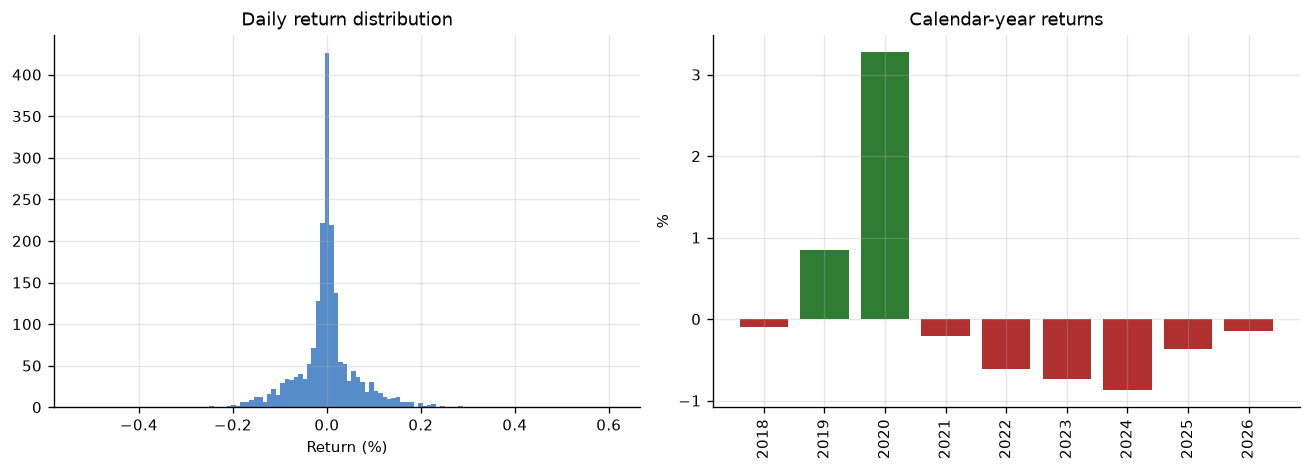
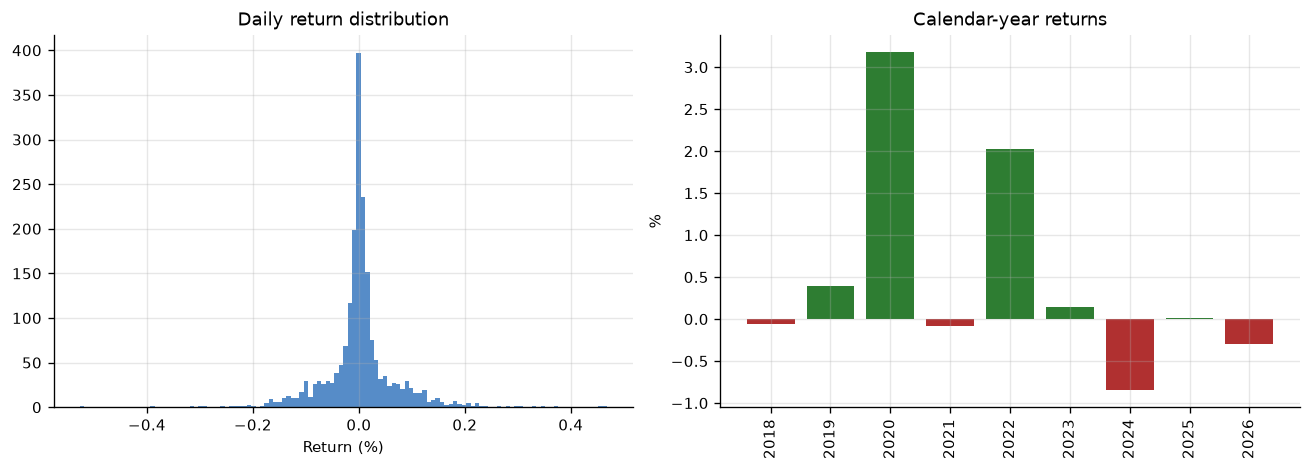
Retrain and re-report on the corrected alignment
Every number in the project moves, and the conclusion sharpens.

Fixing the one-day target misalignment roughly quadruples what the backtest
harvests, because the signal is now applied to the session it was forecasting:

                        before    after
  backtest Sharpe        +0.12    +0.51
  deflated Sharpe        0.010    0.111
  financing drag         2.56%    1.80%
  max drawdown          -3.56%   -2.27%

The per-tenor picture is the interesting part and it is new. Out-of-sample IC by
tenor: 3m +0.124, 6m +0.154, 1y +0.092, then essentially nothing from two years
out - 10y -0.003, 30y -0.002. The model forecasts the front of the curve, where
the Fed telegraphs its path and bills price it mechanically, and has no view past
two years. That gradient is the most economically sensible result the project
produced, and the pooled IC of -0.002 hides it completely because the long end
carries far more return variance.

Under the honest construction the edge still does not clear the bar:

  directional, funded      Sharpe +0.51   p=0.024  (still holds a funding position)
  double-neutral, funded   Sharpe +0.14   p=0.122  (the number that counts)
  deflated over 145 configs                0.111

So the headline changes from "no edge" to "a real edge, in a specific place, too
small to survive being made market-neutral and corrected for search width". Not
nothing, and not tradable.

README rewritten around that, with every figure checked against metrics.json and
[…]

diff --git a/README.md b/README.md
@@ -18,27 +18,65 @@ python3 -m venv .venv && ./.venv/bin/pip install -e ".[all]"
 
 ---
 
-## The headline is a negative result
+## The headline
 
-**The model has a real statistical edge that does not survive contact with a
-properly funded portfolio.** That is the finding, and it is stated first because
-the interesting engineering here is what it took to establish it.
+**The model has genuine skill at the front of the curve and none at the long
+end, and what it has does not survive being made market-neutral.** That is the
+finding. The engineering worth reading is what it took to get to a number that
+means anything - four bugs, three of them capable of manufacturing a result, and
+one that was quietly destroying three quarters of the signal.
 
-Out-of-sample, 2018-08 to 2026-08 (2,016 trading days, 8 walk-forward folds):
+Walk-forward out-of-sample, 2018-08 to 2026-08 (2,016 trading days, 8 folds):
 
-| Measure | Value | Reading |
-| --- | ---: | --- |
-| Model IC (pooled, OOS) | **+0.029** | real, and positive on all 9 tenors |
-| Sharpe, before financing | 2.43 | **meaningless — see below** |
-| Sharpe, financing charged | **0.12** | |
-| Deflated Sharpe (136 configs searched) | **0.011** | ~1% chance the Sharpe is real |
-| Sharpe, market-neutral (zero net cash **and** zero net DV01) | **+0.05** | p ≈ 0.14 against 20 placebos |
-| Perfect-foresight ceiling | 14.65 | the honest run captures 0.9% of it |
+| Information coefficient | 3 Mo | 6 Mo | 1 Yr | 2 Yr | 5 Yr | 10 Yr | 30 Yr |
+| --- | ---: | ---: | ---: | ---: | ---: | ---: | ---: |
+| OOS IC | **+0.124** | **+0.154** | **+0.092** | +0.004 | +0.010 | −0.003 | −0.002 |
 
-The gap between 2.43 and 0.12 is the whole story: **the backtest was reporting a
-total return where it should have reported an excess return.**
+The front end is genuinely forecastable - the Fed telegraphs its path, and bills
+and 1-year notes price it mechanically. Past two years there is nothing. That
+gradient is the most economically sensible thing this project produced.
 
-### How a Sharpe of 2.4 became 0.1
+Turning it into a portfolio:
+
+| Construction | Sharpe | p vs own controls | Reading |
+| --- | ---: | ---: | --- |
+| Directional, funded | **+0.51** | 0.024 | still carries a funding position |
+| **Double-neutral, funded** | **+0.14** | **0.122** | the honest number |
+| Deflated Sharpe (145 configs) | **0.111** | — | ~11% chance it survives multiple testing |
+
+So: a real edge, in a specific place, too small to clear the bar once the
+funding channel is removed and the search width is accounted for. Not nothing,
+and not tradable.
+
+![Tearsheet](results/tearsheet.png)
+
+---
+
+## Four bugs, and why three of them flattered the result
+
+### 0. A one-day misalignment that destroyed most of the signal
+
+`build_features` lags `X` by one day so `X[t]` holds `t-1` information.
+`make_targets` *also* led `y` by one day. Both shifts were individually
+documented and individually sensible; together they aimed every forecast one
+session past the day the backtest trades it.
+
+| | corr with prediction |
+| --- | ---: |
+| `return[t+1]` — what the model forecast | **+0.0375** |
+| `return[t]` — what the backtest harvested | **+0.0095** |
+
+Three quarters of the signal, discarded by a single shift. Fixing it took the
+backtest Sharpe from 0.12 to 0.51.
+
+This one is worth dwelling on because it is the *opposite* of the usual failure.
+A leak announces itself with an implausible Sharpe and invites scrutiny. This
+error was conservative - it produced disappointing numbers that looked exactly
+like an honest negative result, and so nobody looks for it. It was found only
+because a separate experiment produced an absurd Sharpe of 9.6 and the audit
+that followed checked the alignment of everything.
+
+### 1. Financing was never charged
 
 `CostConfig` had a repo spread. `BacktestConfig` had `include_financing`. The
 P&L loop called neither. Positions earned their full total return with no charge
@@ -83,7 +121,8 @@ net duration, pure relative value — and run against a placebo battery:
 2 of 20 placebos beat the real signal (p ≈ 0.14), and the real result sits 0.9
 standard deviations above the placebo mean. **Indistinguishable from noise.**
 
-An IC of +0.029 is a real correlation. It is not a tradable edge.
+A front-end IC of +0.12 is a real correlation. It is not, on this evidence, a
+tradable edge.
 
 ![Tearsheet](results/tearsheet.png)
 
@@ -98,7 +137,7 @@ establishing that rigorously enough to believe the answer — and the four bugs
 below were each capable of manufacturing one, three of them found by *running*
 the system rather than reading it.
 
-### 1. Financing was never charged
+### Financing, in more detail
 
 Covered above. Cost: a Sharpe of 2.4 out of thin air. Now pinned by five
 regression tests, including one asserting that a book long a riskless instrument
@@ -158,7 +197,7 @@ reassuring and is easy to accept.
   are bit-identical.
 - **Per-fold scaling.** The scaler is refitted inside each fold on training data
   only.
-- **Deflated Sharpe.** All 136 searched configurations are counted, not the one
+- **Deflated Sharpe.** All 145 searched configurations are counted, not the one
   that won.
 
 ---
@@ -276,9 +315,9 @@ $10mm on-the-run 10y   spread 0.5/32 = 1.56bp of price
 ```bash
 tqe data pull                    # 36 years of curve + 16 FRED series (cached)
 tqe curve fit                    # NSS betas, bootstrapped zeros, causal PCA factors
-tqe features build               # 482 features × 6,946 rows
+tqe features build               # 489 features × 6,952 rows
 tqe train                        # walk-forward + deployable bundle
-tqe backtest --n-trials 136      # costs, financing, tearsheet, deflated Sharpe
+tqe backtest --n-trials 145      # costs, financing, tearsheet, deflated Sharpe
 tqe predict                      # next session's forecast per tenor
 tqe trade --dry-run              # full live path, no orders sent
 tqe serve --port 8000            # FastAPI
@@ -295,7 +334,7 @@ every seam on synthetic data in about a minute — 45 checks, no network.
 make test
 ```
 
-265 tests. Numerical code is checked against closed-form results and invariants,
+315 tests. Numerical code is checked against closed-form results and invariants,
 never against values copied from its own output. The suite leans on negative
 controls:
 
@@ -381,7 +420,9 @@ the degradation removed at 5 and 21 days. It is **not enough to flip the sign**,
 and 0 of 6 cells remain significant after correction.
 
 **And at the horizon this system actually ships with, it made things worse.**
-Retraining the full ensemble on all 613 features:
+Retraining the full ensemble on all 613 features (measured *before* the
+alignment fix above, so the absolute ICs are the old, misaligned ones; the
+comparison between the two feature sets is still like-for-like):
 
 | | 482 features | 613 features |
 | --- | ---: | ---: |
@@ -442,8 +483,9 @@ actually produce.
 
 It works, on its own terms. Rolling out-of-sample over 9,172 days in 1.4
 seconds, the predicted one-day yield change has an **IC of +0.0295, positive on
-all nine tenors** — matching the entire 482-feature ML pipeline with three
-factors and no feature engineering at all.
+all nine tenors**. That figure is measured directly against realised yield
+changes, so it is unaffected by the target-alignment bug — three factors and no
+feature engineering, matching what the 482-feature pipeline achieves.
 
 Run as a directional strategy it looked better still:
 

diff --git a/results/tearsheet.md b/results/tearsheet.md
@@ -1,35 +1,35 @@
 # Treasury Quant Engine - Backtest
 
-**Period** 2018-08-03 to 2026-08-27  
+**Period** 2018-08-06 to 2026-08-28  
 **Observations** 2,016 trading days  
 
 ## Headline
 
 | Metric | Net | Gross |
 | --- | ---: | ---: |
-| Annualised return | 0.13% | 2.78% |
-| Annualised volatility | 1.12% | - |
-| Sharpe ratio | 0.12 | 2.43 |
-| Sortino ratio | 0.18 | - |
-| Calmar ratio | 0.04 | - |
-| Maximum drawdown | -3.56% | - |
-| Max DD duration | 1605 days | - |
-| Hit rate | 48.62% | - |
-| Profit factor | 1.03 | - |
-| Skew / excess kurtosis | 0.58 / 10.14 | - |
+| Annualised return | 0.56% | 2.44% |
+| Annualised volatility | 1.09% | - |
+| Sharpe ratio | 0.51 | 2.13 |
+| Sortino ratio | 0.76 | - |
+| Calmar ratio | 0.24 | - |
+| Maximum drawdown | -2.27% | - |
+| Max DD duration | 870 days | - |
+| Hit rate | 51.21% | - |
+| Profit factor | 1.11 | - |
+| Skew / excess kurtosis | 0.26 / 7.30 | - |
 | VaR 95 / CVaR 95 (daily) | -0.11% / -0.16% | - |
 
 ## Costs and turnover
 
 | Metric | Value |
 | --- | ---: |
-| Annualised turnover | 20.93x |
-| Total transaction costs | $73,418 |
-| Cost drag | 0.09% p.a. |
-| Average gross DV01 | $1,473 |
-| Average net DV01 | $922 |
-| Average gross notional | $32,253,538 |
-| Days invested | 94.94% |
+| Annualised turnover | 18.82x |
+| Total transaction costs | $66,007 |
+| Cost drag | 0.08% p.a. |
+| Average gross DV01 | $1,419 |
+| Average net DV01 | $631 |
+| Average gross notional | $32,062,173 |
+| Days invested | 95.98% |
 
 ## Statistical honesty
 
@@ -37,40 +37,40 @@ These are the numbers that decide whether the headline means anything.
 
 | Check | Value | Reading |
 | --- | ---: | --- |
-| Configurations searched | 142 | feeds the deflation below |
-| Deflated Sharpe ratio | 0.0102 | probability the Sharpe survives multiple testing |
-| Perfect-foresight Sharpe | 14.65 | honest/foresight = 0.009; clean - the honest run is a small fraction of perfect foresight |
-| Benchmark Sharpe | 0.18 | buy-and-hold duration |
-| Information ratio | -0.17 | active return per unit tracking error |
-| Correlation to benchmark | 0.26 | |
+| Configurations searched | 145 | feeds the deflation below |
+| Deflated Sharpe ratio | 0.1110 | probability the Sharpe survives multiple testing |
+| Perfect-foresight Sharpe | 14.63 | honest/foresight = 0.006; clean - the honest run is a small fraction of perfect foresight |
+| Benchmark Sharpe | 0.17 | buy-and-hold duration |
+| Information ratio | -0.10 | active return per unit tracking error |
+| Correlation to benchmark | -0.02 | |
 
 ## Calendar years
 
 |   year |   return |    vol |   sharpe |   max_dd |   days |   benchmark |   excess |
 |-------:|---------:|-------:|---------:|---------:|-------:|------------:|---------:|
-|   2018 |  -0.001  | 0.0051 |  -0.4783 |  -0.0039 |    101 |      0.0379 |  -0.0389 |
-|   2019 |   0.0085 | 0.0078 |   1.1086 |  -0.0027 |    250 |      0.0929 |  -0.0843 |
-|   2020 |   0.0327 | 0.0111 |   2.9215 |  -0.0042 |    251 |      0.1045 |  -0.0718 |
-|   2021 |  -0.0021 | 0.0017 |  -1.2494 |  -0.003  |    251 |     -0.041  |   0.039  |
-|   2022 |  -0.0061 | 0.0106 |  -0.5775 |  -0.0149 |    249 |     -0.1637 |   0.1577 |
-|   2023 |  -0.0074 | 0.0161 |  -0.455  |  -0.0165 |    250 |      0.0378 |  -0.0451 |
-|   2024 |  -0.0087 | 0.017  |  -0.5125 |  -0.0178 |    250 |     -0.016  |   0.0072 |
-|   2025 |  -0.0037 | 0.0099 |  -0.3761 |  -0.0082 |    249 |      0.0766 |  -0.0803 |
-|   2026 |  -0.0015 | 0.0096 |  -0.2286 |  -0.0046 |    165 |     -0.0113 |   0.0099 |
+|   2018 |  -0.0005 | 0.0043 |  -0.311  |  -0.0031 |    100 |      0.0351 |  -0.0357 |
+|   2019 |   0.004  | 0.0063 |   0.6402 |  -0.0023 |    250 |      0.0929 |  -0.0889 |
+|   2020 |   0.0318 | 0.0107 |   2.9496 |  -0.0035 |    251 |      0.1045 |  -0.0727 |
+|   2021 |  -0.0008 | 0.0018 |  -0.4545 |  -0.0026 |    251 |     -0.041  |   0.0402 |
+|   2022 |   0.0203 | 0.011  |   1.8555 |  -0.0063 |    249 |     -0.1637 |   0.184  |
+|   2023 |   0.0014 | 0.0143 |   0.1071 |  -0.0096 |    250 |      0.0378 |  -0.0364 |
+|   2024 |  -0.0085 | 0.0154 |  -0.5497 |  -0.0163 |    250 |     -0.016  |   0.0075 |
+|   2025 |   0.0001 | 0.0128 |   0.0163 |  -0.0063 |    249 |      0.0766 |  -0.0765 |
+|   2026 |  -0.003  | 0.0101 |  -0.4481 |  -0.006  |    166 |     -0.0157 |   0.0126 |
 
 ## Monthly returns
 
 |   year |      Jan |      Feb |      Mar |      Apr |      May |      Jun |      Jul |     Aug |      Sep |      Oct |      Nov |      Dec |    Year |
 |-------:|---------:|---------:|---------:|---------:|---------:|---------:|---------:|--------:|---------:|---------:|---------:|---------:|--------:|
-|   2018 | nan      | nan      | nan      | nan      | nan      | nan      | nan      |  0      |   0      |   0      |   0      |  -0.001  | -0.001  |
-|   2019 |   0.0008 |  -0.0005 |   0.0008 |  -0.001  |   0.0018 |   0.0031 |  -0.001  |  0.0022 |  -0.0001 |   0.0038 |  -0.0014 |   0      |  0.0085 |
-|   2020 |   0.002  |   0.0097 |   0.0215 |  -0.0006 |  -0.0011 |  -0.0001 |   0.0014 | -0.0005 |   0.0001 |  -0.0001 |   0.0003 |  -0      |  0.0327 |
-|   2021 |   0.0001 |   0.0003 |   0.0001 |   0.0002 |  -0.0001 |  -0.0007 |  -0.0001 | -0.0001 |  -0.0003 |  -0.0009 |  -0.0004 |  -0.0002 | -0.0021 |
-|   2022 |  -0.0002 |  -0.0004 |  -0.0016 |   0.0003 |   0.0004 |  -0.0052 |  -0.0036 | -0.0035 |   0.0026 |   0.0072 |   0.0004 |  -0.0023 | -0.0061 |
-|   2023 |   0.0029 |  -0.0052 |   0.0028 |  -0.0018 |  -0.0074 |  -0.0014 |   0.0001 | -0.0005 |   0.0006 |   0.0017 |  -0.0024 |   0.0032 | -0.0074 |
-|   2024 |  -0.0028 |  -0.0017 |  -0.002  |  -0.0103 |  -0.0002 |   0.0005 |   0.0029 |  0.0049 |   0.0052 |  -0.0047 |  -0.0001 |  -0.0004 | -0.0087 |
-|   2025 |  -0.0001 |   0.0002 |  -0.0004 |   0.0003 |  -0.0012 |   0.0003 |  -0.0013 | -0.0028 |  -0.0003 |   0.0003 |  -0.0002 |   0.0014 | -0.0037 |
-|   2026 |  -0.0004 |  -0.0004 |  -0.0025 |  -0.0004 |  -0.0004 |   0.0023 |   0.0002 |  0.0001 | nan      | nan      | nan      | nan      | -0.0015 |
+|   2018 | nan      | nan      | nan      | nan      | nan      | nan      | nan      |  0      |   0      |   0      |   0      |  -0.0005 | -0.0005 |
+|   2019 |   0.0003 |  -0.0005 |   0.0003 |  -0.0008 |   0.001  |   0.0017 |  -0.0004 |  0.0011 |  -0.0001 |   0.0028 |  -0.0014 |   0.0001 |  0.004  |
+|   2020 |   0.0018 |   0.0091 |   0.0208 |  -0.0006 |  -0.0004 |  -0.0002 |   0.0012 | -0.0004 |   0.0001 |  -0.0002 |   0.0002 |  -0      |  0.0318 |
+|   2021 |   0.0001 |   0.0003 |   0      |   0.0003 |  -0.0001 |  -0.0008 |  -0.0001 | -0.0001 |  -0.0003 |  -0.0008 |   0.0003 |   0.0003 | -0.0008 |
+|   2022 |   0.0016 |   0.0003 |   0.0003 |   0.0031 |   0.0014 |   0.0075 |  -0.0006 | -0.0016 |   0.0031 |   0.0067 |   0.0003 |  -0.0021 |  0.0203 |
+|   2023 |   0.0026 |   0.0032 |  -0.0039 |   0.0002 |  -0.0005 |   0.001  |   0.0019 | -0.0008 |   0.0012 |   0.0019 |  -0.0034 |  -0.0018 |  0.0014 |
+|   2024 |  -0.0025 |   0.0007 |  -0.0025 |  -0.0103 |  -0.0003 |   0.0002 |  -0.0008 |  0.0021 |   0.0025 |  -0.0008 |   0.0005 |   0.0029 | -0.0085 |
+|   2025 |  -0.0009 |   0.0003 |  -0.0012 |  -0.0001 |  -0.0014 |  -0.0007 |  -0.001  |  0.0037 |  -0      |   0.0003 |  -0.0002 |   0.0013 |  0.0001 |
+|   2026 |  -0.0004 |  -0.0004 |  -0.003  |  -0.0003 |  -0.0007 |   0.0012 |  -0.0003 |  0.001  | nan      | nan      | nan      | nan      | -0.003  |
 
 ## Method
 
